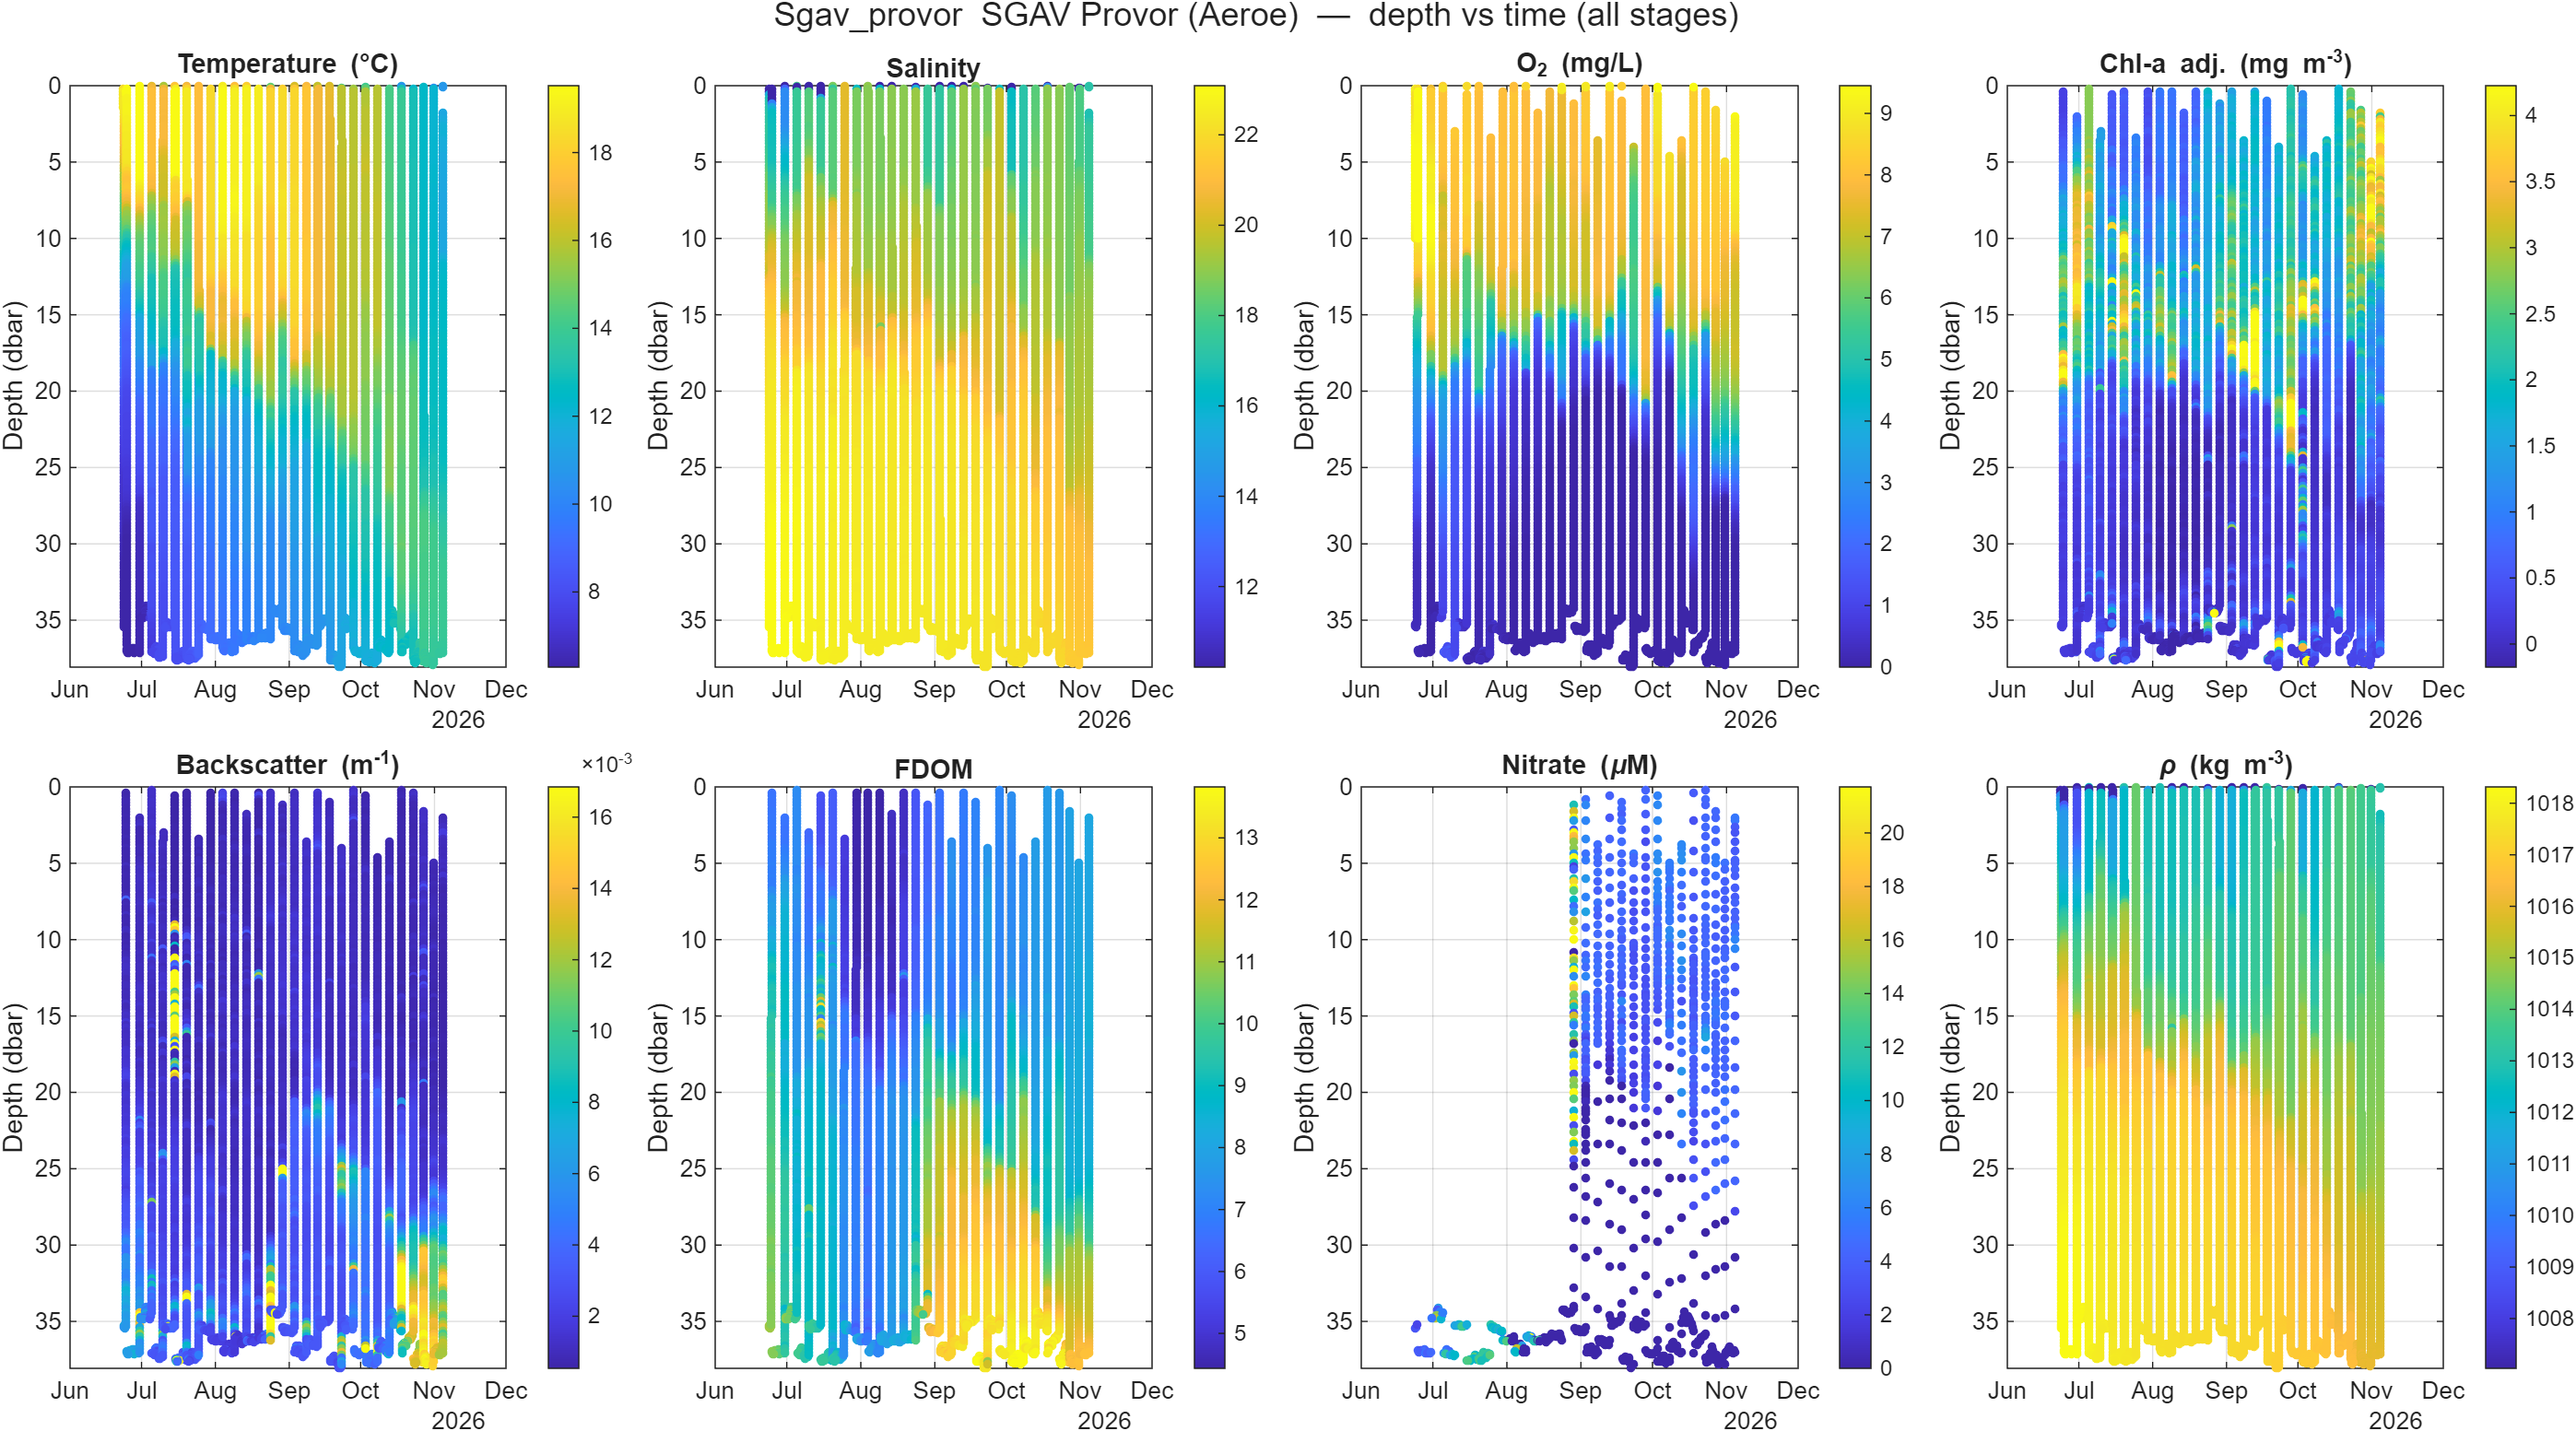
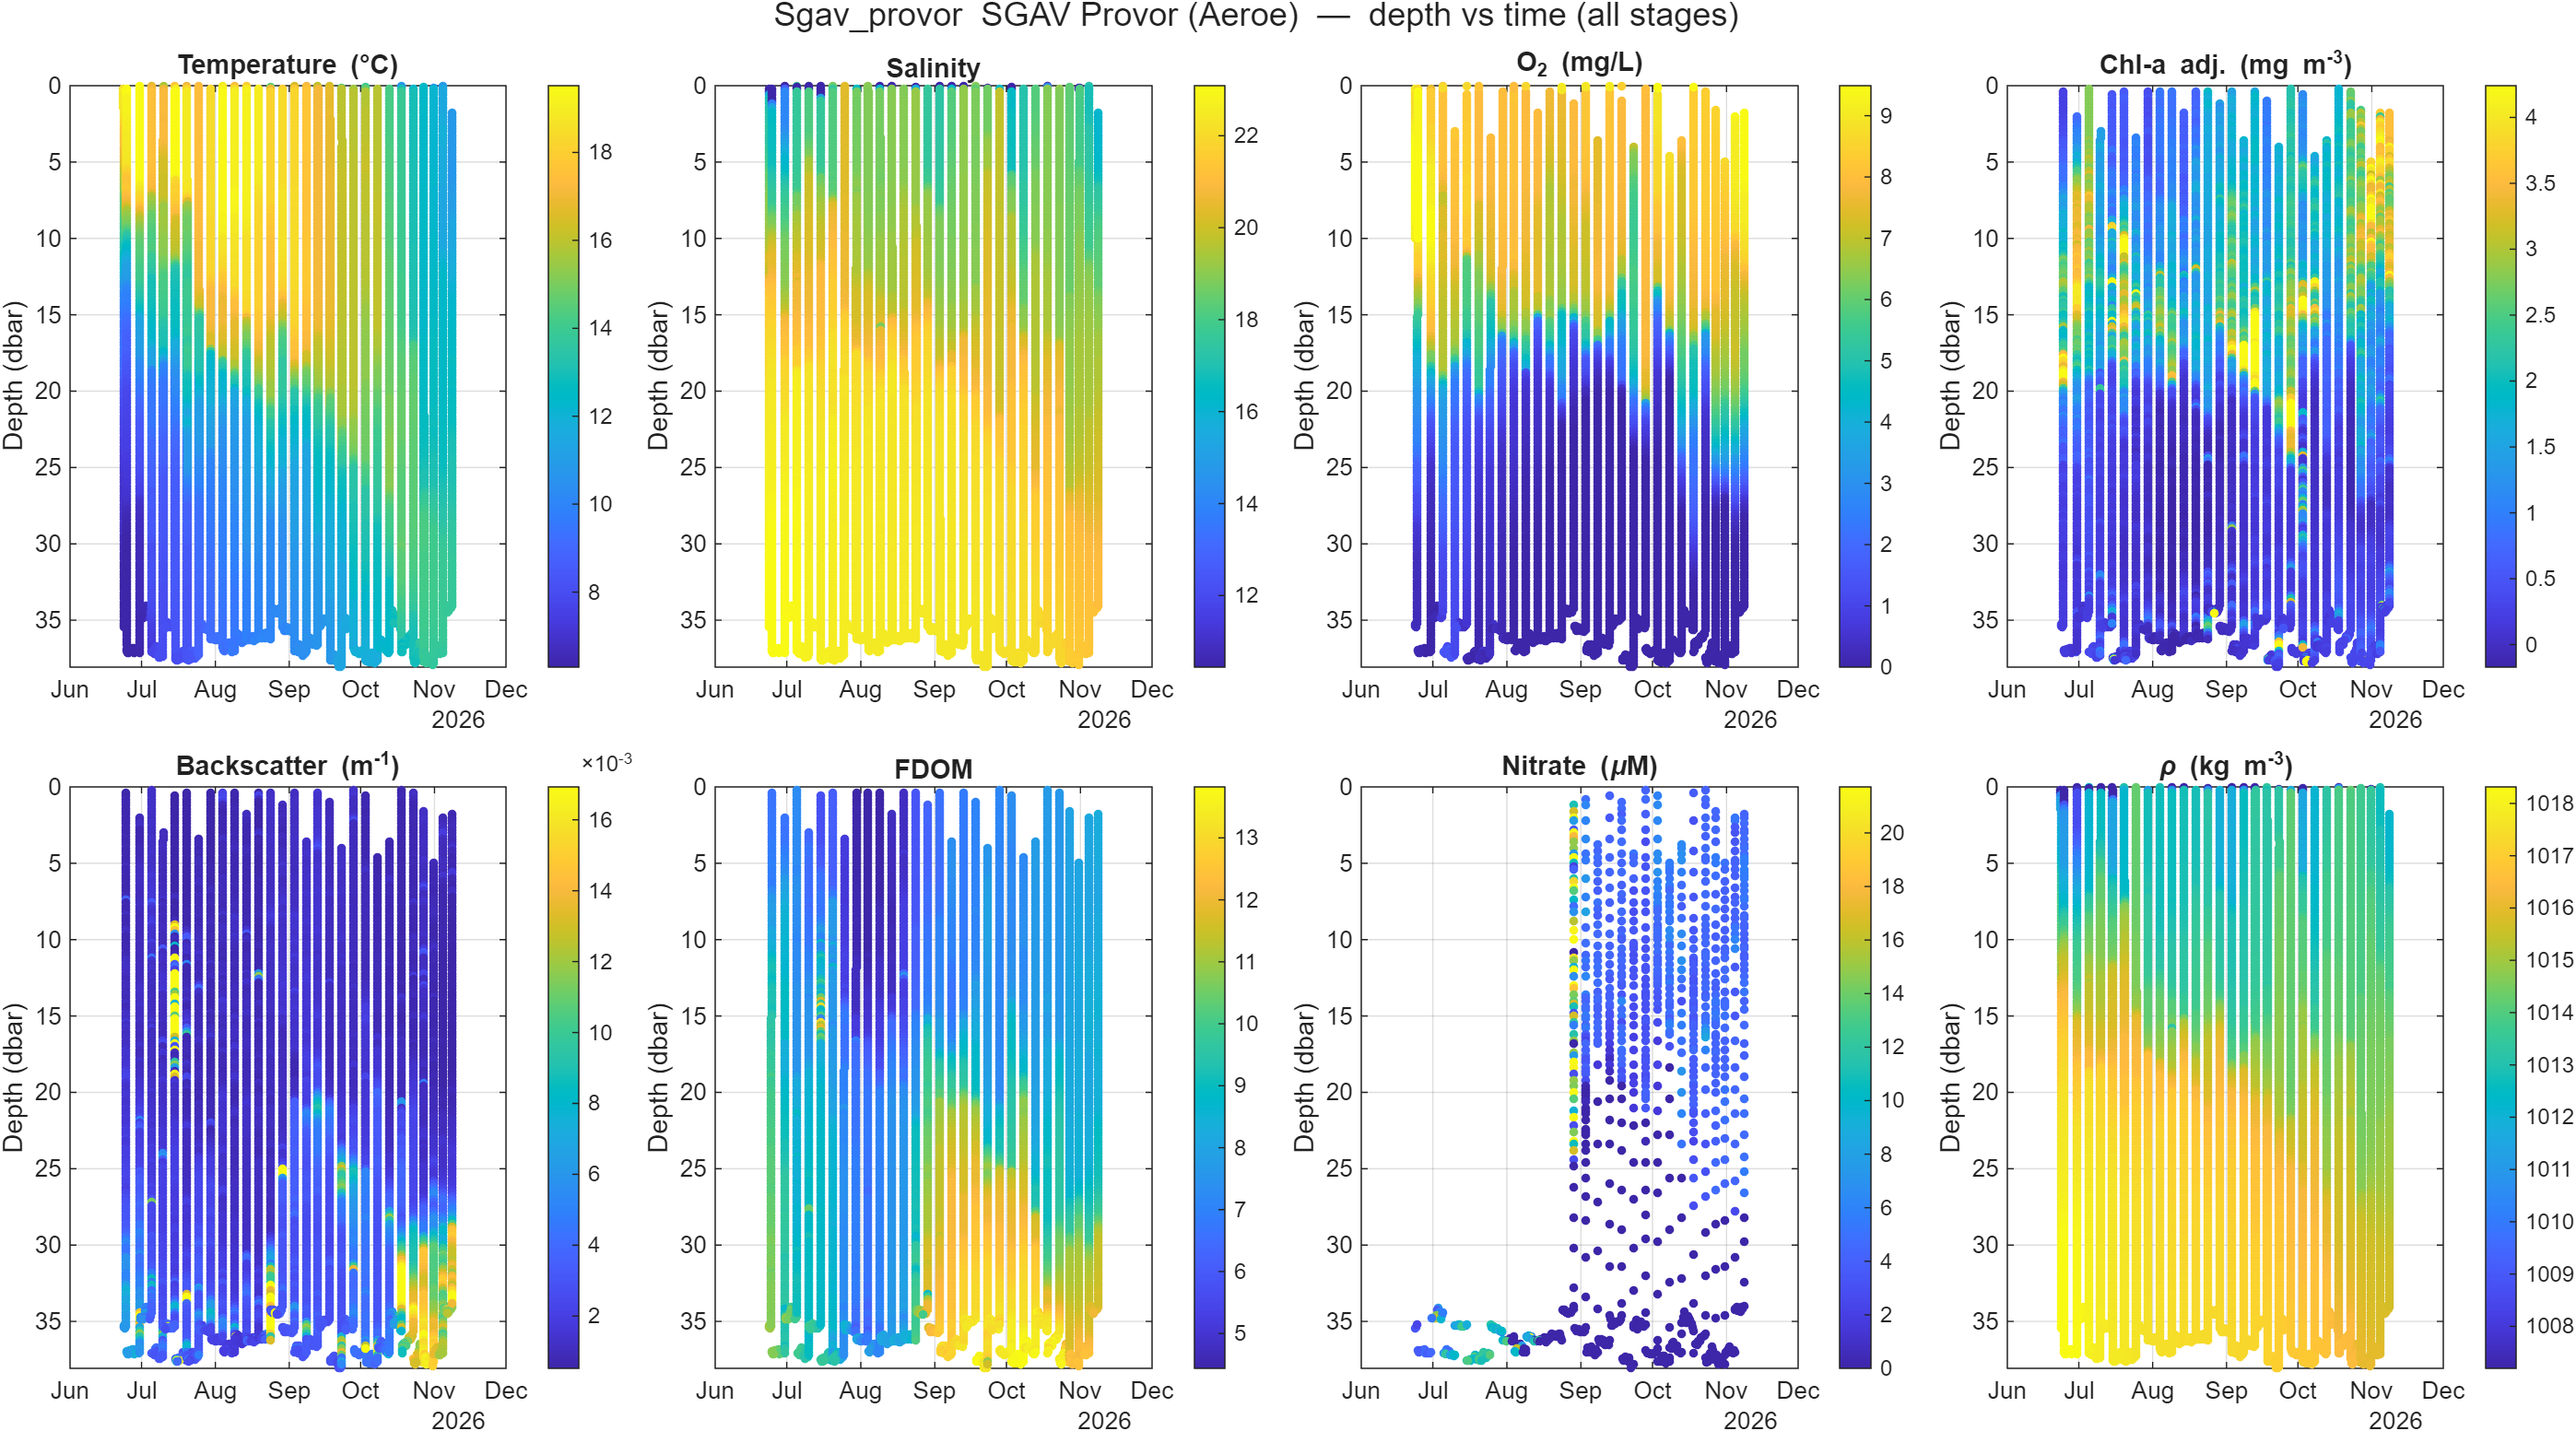
data update

diff --git a/data.js b/data.js
@@ -16,7 +16,7 @@
 //   graphs        [{label, src}, ...] figures for the fold-out
 //   notes         free text from floats_config.csv
 
-const floatUpdated = "2026-11-09 11:48";
+const floatUpdated = "2026-11-09 14:32";
 
 const floatData = [
   {
@@ -33,7 +33,7 @@ const floatData = [
     "location": "69.489° N, 18.965° W",
     "deployment_date": "2025-05-27",
     "last_surface": "2026-11-06 05:05",
-    "days_since": 3.3,
+    "days_since": 3.4,
     "next_surface": "2026-11-11 04:05",
     "next_surface_source": "nke cycle period",
     "n_profiles": 109,
@@ -510,7 +510,7 @@ const floatData = [
     "location": "67.507° N, 20.206° W",
     "deployment_date": "2025-02-10",
     "last_surface": "2026-11-08 03:17",
-    "days_since": 1.4,
+    "days_since": 1.5,
     "next_surface": "2026-11-13 02:17",
     "next_surface_source": "nke cycle period",
     "n_profiles": 130,
@@ -1071,7 +1071,7 @@ const floatData = [
     "location": "70.276° N, 17.847° W",
     "deployment_date": "2025-10-30",
     "last_surface": "2026-11-07 00:01",
-    "days_since": 2.5,
+    "days_since": 2.6,
     "next_surface": "2026-11-11 23:01",
     "next_surface_source": "nke cycle period",
     "n_profiles": 75,
@@ -1416,7 +1416,7 @@ const floatData = [
     "location": "77.315° N, 71.107° W",
     "deployment_date": "2025-08-13",
     "last_surface": "2026-11-02 18:18",
-    "days_since": 6.7,
+    "days_since": 6.8,
     "next_surface": "2026-11-07 17:18",
     "next_surface_source": "nke cycle period",
     "n_profiles": 70,
@@ -1741,7 +1741,7 @@ const floatData = [
     "location": "78.691° N, 11.255° W",
     "deployment_date": "2025-08-04",
     "last_surface": "2026-09-01 04:35",
-    "days_since": 69.3,
+    "days_since": 69.4,
     "next_surface": "",
     "next_surface_source": "",
     "n_profiles": 81,
@@ -2110,7 +2110,7 @@ const floatData = [
     "location": "74.325° N, 20.307° W",
     "deployment_date": "2025-08-17",
     "last_surface": "2026-10-12 07:24",
-    "days_since": 28.2,
+    "days_since": 28.3,
     "next_surface": "",
     "next_surface_source": "",
     "n_profiles": 43,
@@ -2327,7 +2327,7 @@ const floatData = [
     "location": "56.451° N, 19.558° E",
     "deployment_date": "2024-11-25",
     "last_surface": "2026-11-08 01:53",
-    "days_since": 1.4,
+    "days_since": 1.5,
     "next_surface": "2026-11-11 00:53",
     "next_surface_source": "nke cycle period",
     "n_profiles": 155,
@@ -2984,7 +2984,7 @@ const floatData = [
     "location": "55.229° N, 16.881° E",
     "deployment_date": "2026-10-24",
     "last_surface": "2026-11-08 11:34",
-    "days_since": 1,
+    "days_since": 1.1,
     "next_surface": "2026-11-13 08:10",
     "next_surface_source": "median cycle interval",
     "n_profiles": 4,
@@ -3037,7 +3037,7 @@ const floatData = [
     "location": "55.201° N, 9.752° E",
     "deployment_date": "2026-06-23",
     "last_surface": "2026-11-03 09:53",
-    "days_since": 6.1,
+    "days_since": 6.2,
     "next_surface": "2026-11-08 08:38",
     "next_surface_source": "median cycle interval",
     "n_profiles": 28,
@@ -3177,15 +3177,15 @@ const floatData = [
     "region": "denmark",
     "status": "active",
     "status_note": "",
-    "latitude": 54.9859,
-    "longitude": 10.2273,
-    "location": "54.986° N, 10.227° E",
+    "latitude": 54.9856,
+    "longitude": 10.2291,
+    "location": "54.986° N, 10.229° E",
     "deployment_date": "2026-06-24",
-    "last_surface": "2026-11-04 12:08",
-    "days_since": 5,
-    "next_surface": "2026-11-09 11:47",
+    "last_surface": "2026-11-08 12:08",
+    "days_since": 1.1,
+    "next_surface": "2026-11-13 11:45",
     "next_surface_source": "median cycle interval",
-    "n_profiles": 28,
+    "n_profiles": 29,
     "track": [
       [
         54.9864,
@@ -3294,6 +3294,10 @@ const floatData = [
       [
         54.9859,
         10.2273
+      ],
+      [
+        54.9856,
+        10.2291
       ]
     ],
     "trajectory": "assets/plots/Sgav_provor/Sgav_provor_map.png",
@@ -3303,8 +3307,8 @@ const floatData = [
         "src": "assets/plots/Sgav_provor/Sgav_provor_sections.png"
       },
       {
-        "label": "Profile 028  (2026-11-04)",
-        "src": "assets/plots/Sgav_provor/Sgav_provor_profile_028_2026-11-04.png"
+        "label": "Profile 029  (2026-11-08)",
+        "src": "assets/plots/Sgav_provor/Sgav_provor_profile_029_2026-11-08.png"
       }
     ],
     "notes": "BGC+RAMSES+SUNA; needs external SGAV_provor tree beside pipeline (FTP+APMTDecoder); set active=true to re-run"
@@ -3323,7 +3327,7 @@ const floatData = [
     "location": "55.136° N, 14.512° E",
     "deployment_date": "2023-11-07",
     "last_surface": "2025-07-06 10:58",
-    "days_since": 491,
+    "days_since": 491.1,
     "next_surface": "",
     "next_surface_source": "",
     "n_profiles": 190,
